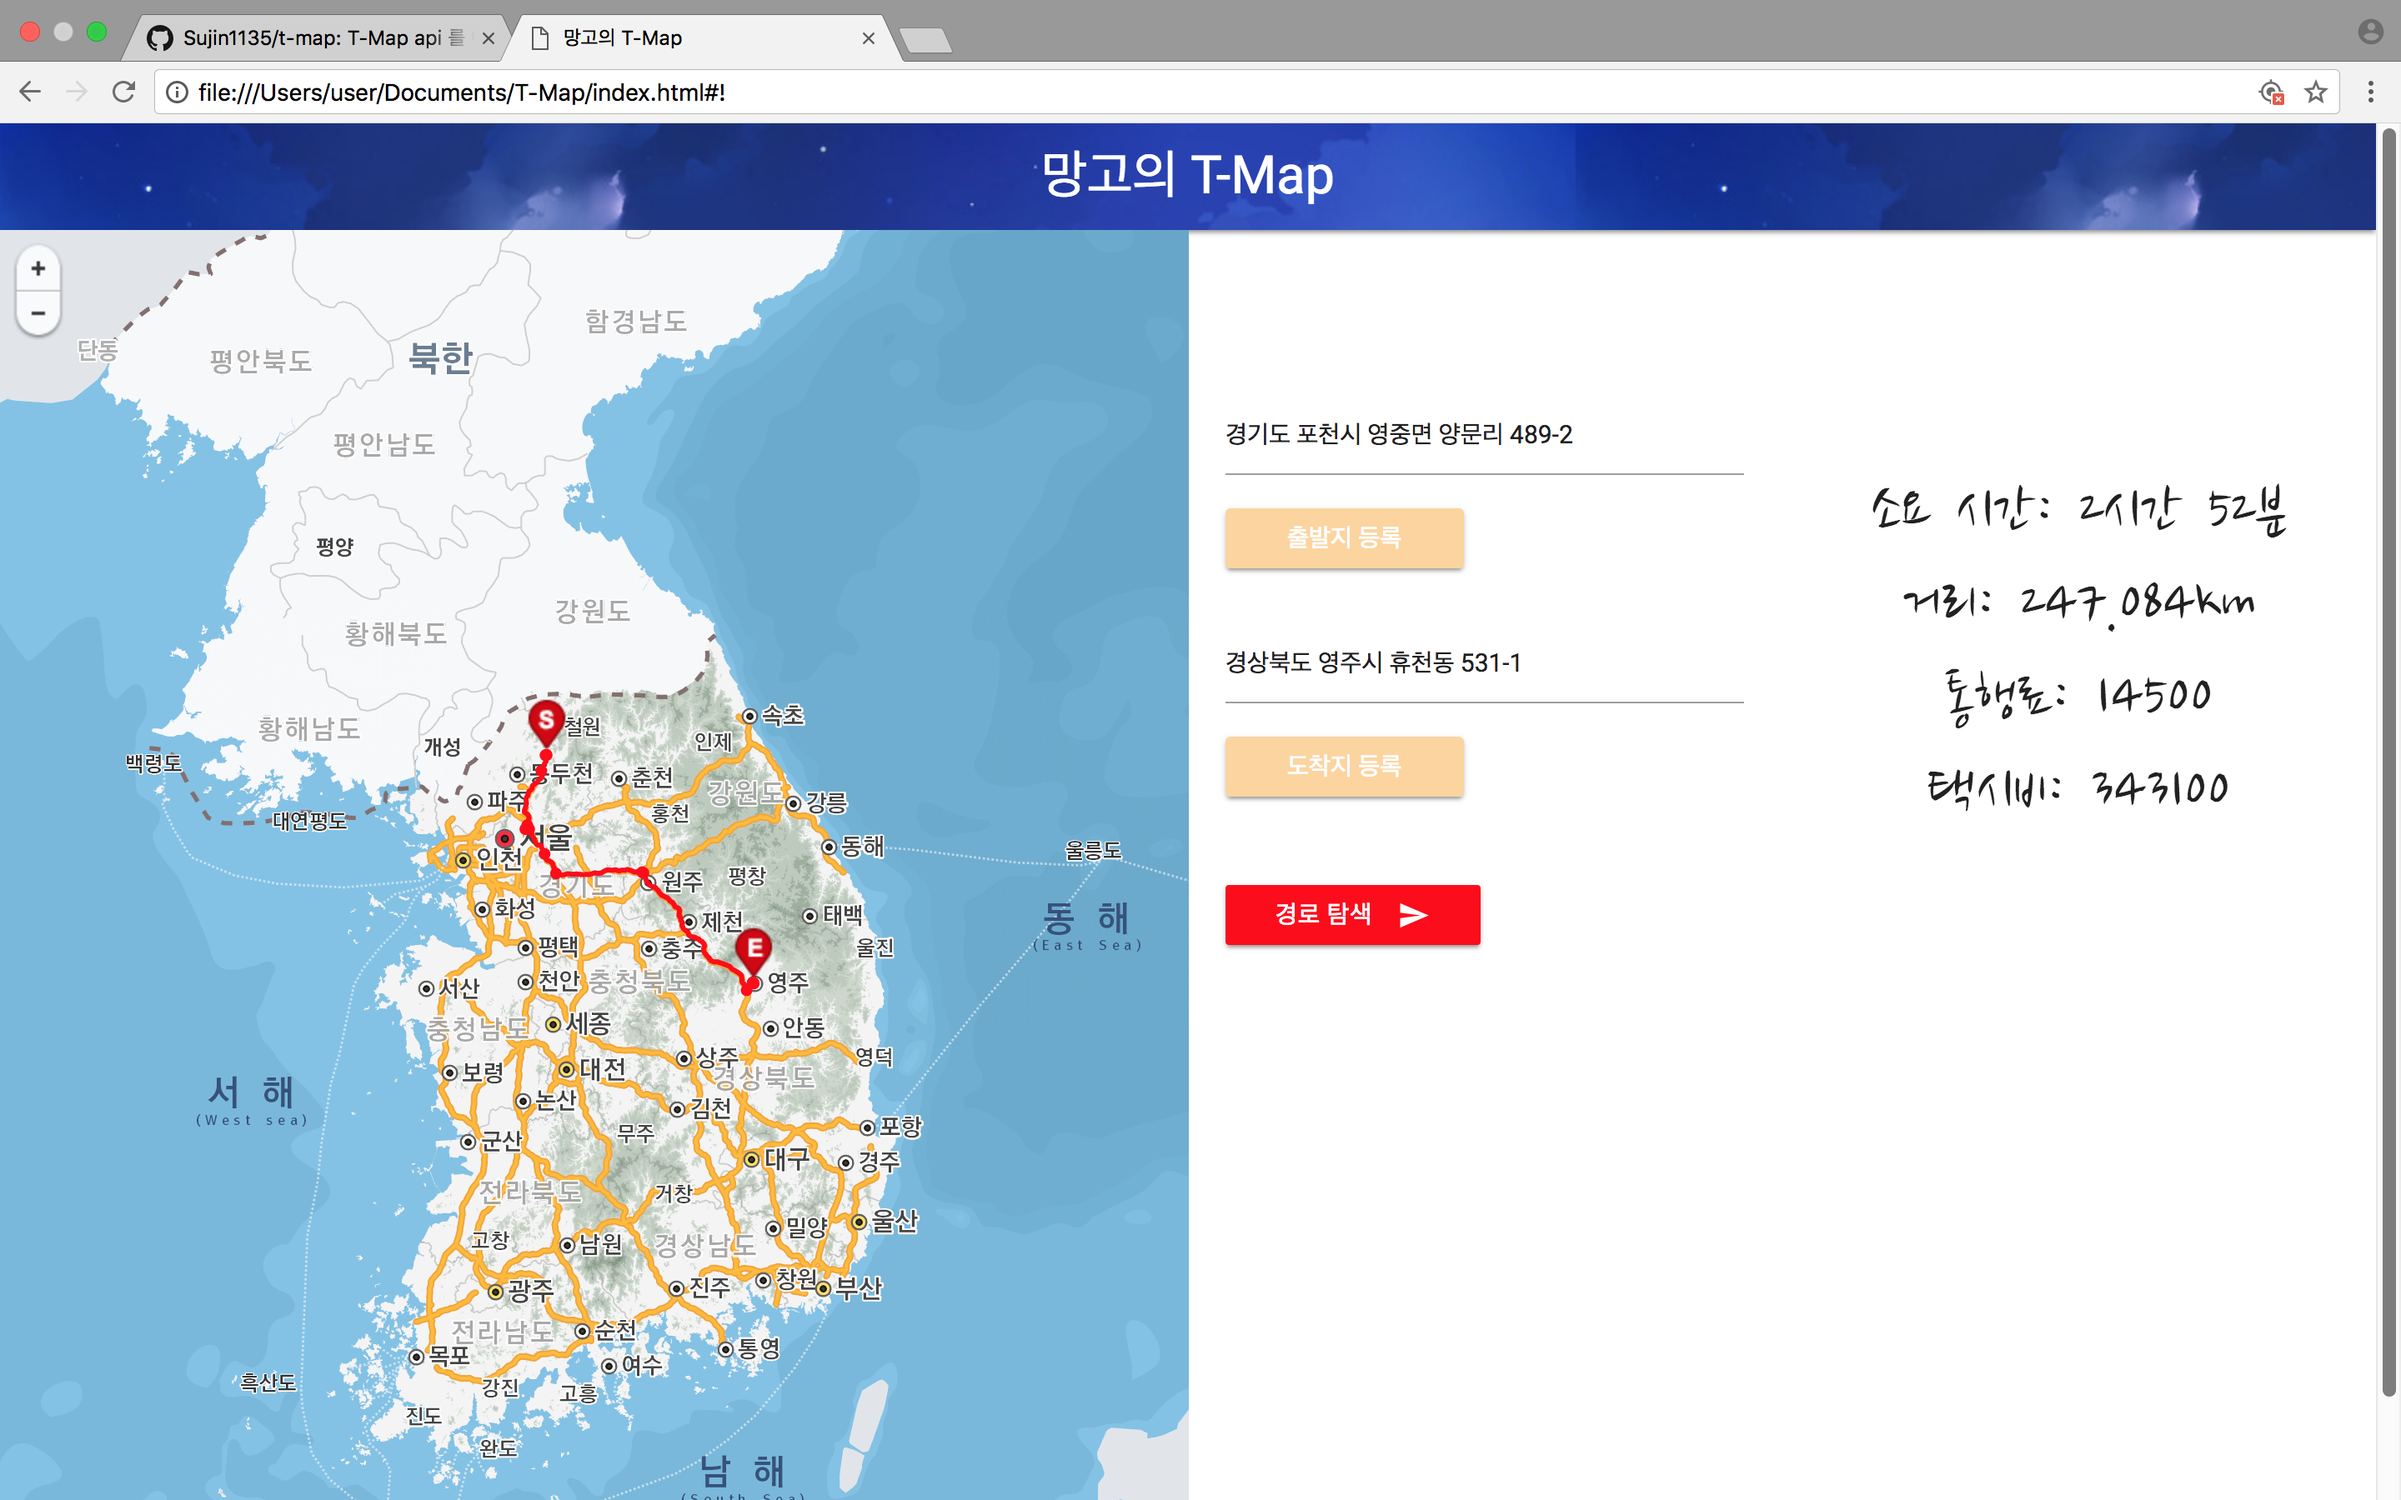
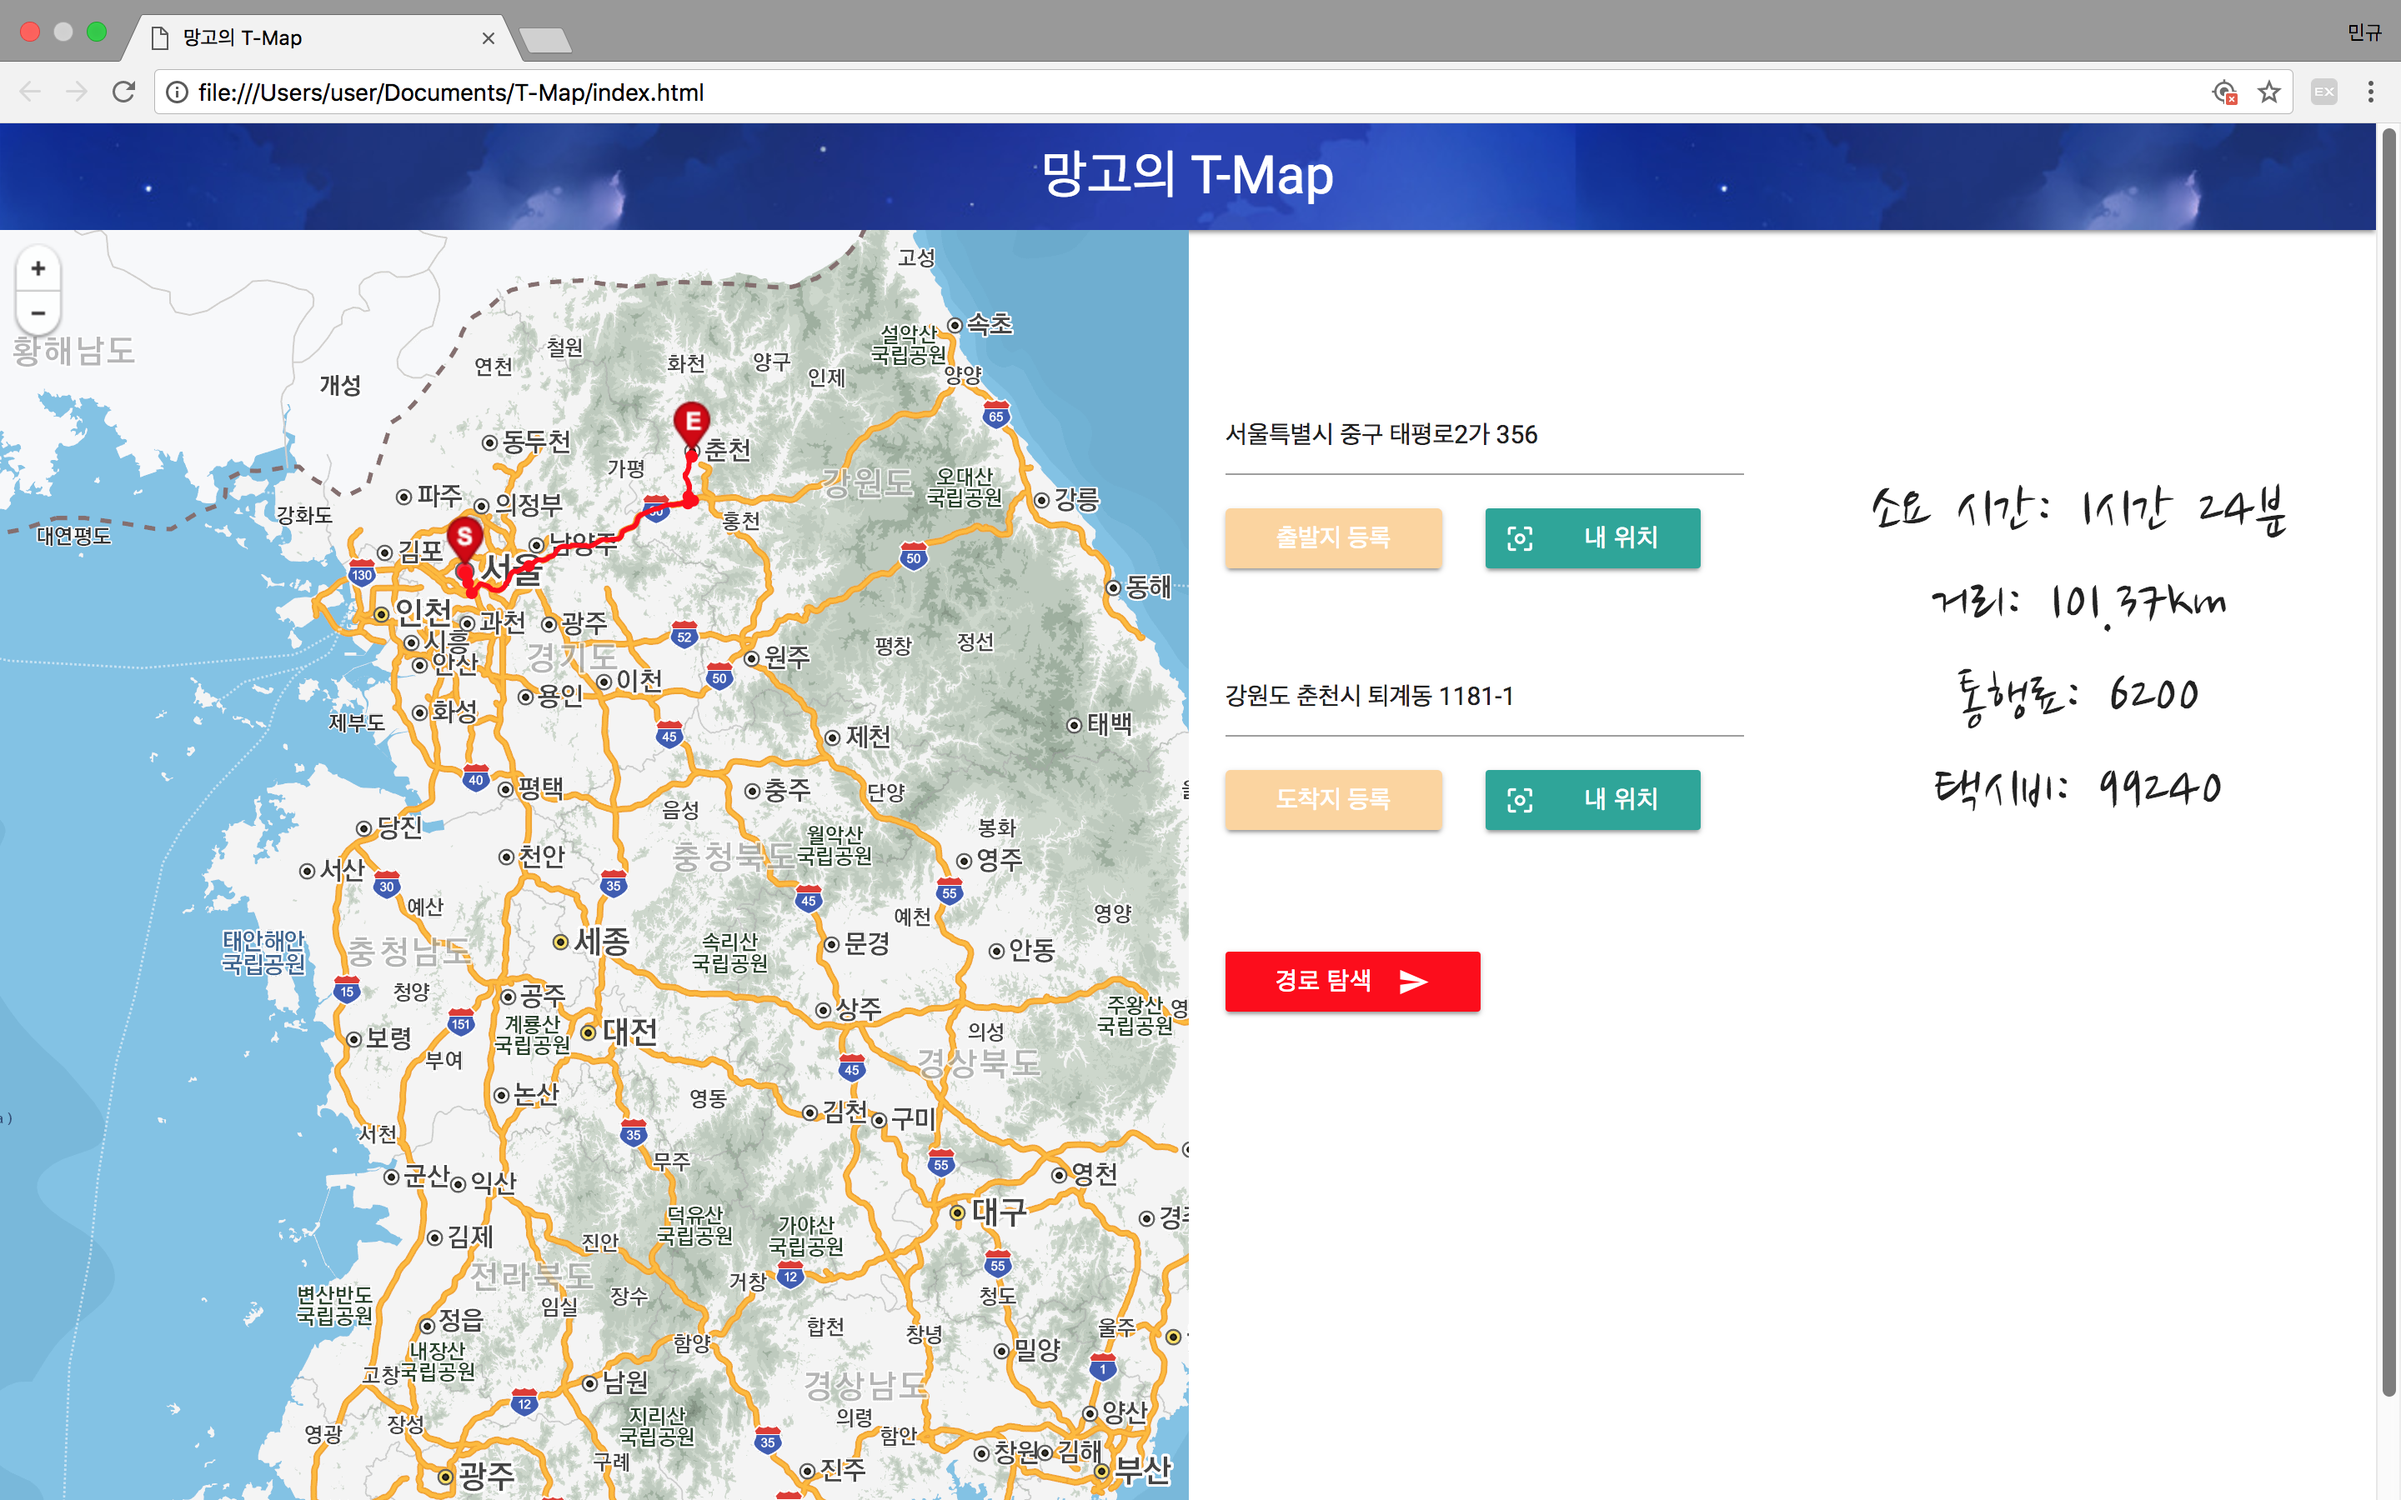
update geolocation

diff --git a/index.html b/index.html
@@ -34,17 +34,29 @@
                 <div class="row">
                     <div class="input-field col s12">
                         <input type="text" id="start" />
-                        <input class="waves-effect waves-light btn" type="button" style="background-color: rgba(250, 170, 50, 0.5);"
-                         value="출발지 등록" onclick="search('#start')">
+                        <div class="row">
+                            <input class="waves-effect waves-light btn col s5" type="button" style="background-color: rgba(250, 170, 50, 0.5);"
+                            value="출발지 등록" onclick="search('#start')">
+                            <button class="waves-effect waves-light btn offset-s1 col s5" type="button" onclick="geoLocation('s')">
+                                <i class="material-icons left">center_focus_weak</i>  내 위치
+                            </button>
+                        </div>
                     </div>
                 </div>
+
                 <div class="row">
                     <div class="input-field col s12">
                         <input type="text" id="end" />
-                        <input class="waves-effect waves-light btn" style="background-color: rgba(250, 170, 50, 0.5);"
-                         type="button" value="도착지 등록" onclick="search('#end')">
+                        <div class="row">
+                            <input class="waves-effect waves-light btn col s5" style="background-color: rgba(250, 170, 50, 0.5);"
+                            type="button" value="도착지 등록" onclick="search('#end')">
+                            <button class="waves-effect waves-light btn offset-s1 col s5" type="button" onclick="geoLocation('e')">
+                                <i class="material-icons left">center_focus_weak</i>  내 위치
+                            </button>
+                        </div>
                     </div>
                 </div>
+
                 <div class="row">
                     <div class="submit col s12">
                         <button class="waves-effect waves-light btn" style="background-color: red;"

diff --git a/js/geolocation.js b/js/geolocation.js
@@ -43,16 +43,16 @@ function initTmap(){
     // HTML5의 geolocation으로 사용할 수 있는지 확인합니다. 
     // 현재 위치 정보를 얻어오는 메서드이다. 사용자가 허용을 할 경우 실행된다.
         // GeoLocation을 이용해서 접속 위치를 얻어옵니다.
-        if (geolocation)    geoLocation();
+        if (geolocation)    geoLocation("s");
 }
 // 나의 위치정보를 나타낼 메서드
-function geoLocation() {
+function geoLocation(location) {
     navigator.geolocation.getCurrentPosition(function(position){
         // 마커가 표시될 위치를 geolocation으로 얻어온 좌표로 생성합니다
         lat = position.coords.latitude; // 위도
         lon = position.coords.longitude; // 경도
 
-        moveCoordinate("s", lon, lat);
+        moveCoordinate(location, lon, lat);
     });
 }
 
@@ -92,12 +92,11 @@ function onClick(e){
     }
 }
 
-function resetResult() {
+function resetResult() { // 출력 정보 리셋
     $("#result").text("");
     $("#result1").text("");
     $("#result2").text("");
     $("#result3").text("");
-    $(".preloader-wrapper").attr("class", "active");
 }
 
 function setLocation(value, x, y, lonlat) {
